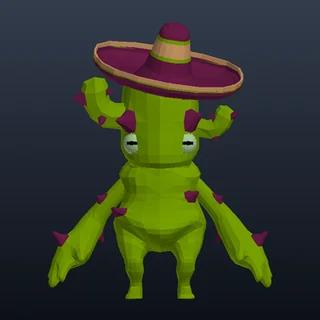
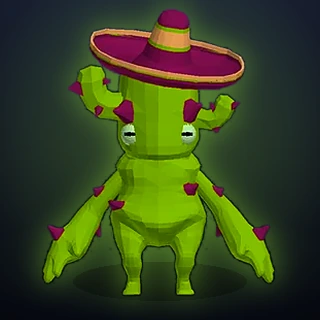
Polish full monster roster presentation

diff --git a/index.html b/index.html
@@ -14,7 +14,7 @@
 <!-- Which build is actually loaded. Stamped by build.js from a hash of the
      source, and shown in the pause panel, so "did my update land?" is a
      question anyone can answer on their phone in two taps. -->
-<meta name="build" content="8074300">
+<meta name="build" content="2ea5223">
 <meta name="description" content="Bomber Fan — a 3D local-multiplayer bomber game. One human, three bots, six themed maps. Works offline.">
 <!-- Added to a phone's home screen it launches full-screen, with no browser
      chrome eating the landscape height the arena needs. -->
@@ -2078,6 +2078,7 @@
   #select .sbody {
     display: grid !important;
     grid-template-columns: minmax(430px, 1.18fr) minmax(460px, 1fr) !important;
+    grid-template-rows: minmax(0, 1fr) auto !important;
     align-items: stretch !important;
     flex: 1 1 auto;
     gap: clamp(18px, 2.5vw, 38px) !important;
@@ -2182,57 +2183,6 @@
     display: block !important;
     color: rgba(255,245,230,.62);
   }
-  #spreview .preview-fallback.bombog {
-    width: 100%;
-    max-width: none;
-    background-color: #000;
-    background-image: url('assets/bombog-portrait.webp');
-    background-size: cover;
-    background-position: center;
-  }
-  #spreview .preview-fallback[data-fighter="hulk"],
-  #spreview .preview-fallback[data-fighter="piglet"],
-  #spreview .preview-fallback[data-fighter="reaper"],
-  #spreview .preview-fallback[data-fighter="cyclops"],
-  #spreview .preview-fallback[data-fighter="jester"],
-  #spreview .preview-fallback[data-fighter="inferno"],
-  #spreview .preview-fallback[data-fighter="plague"],
-  #spreview .preview-fallback[data-fighter="devil"],
-  #spreview .preview-fallback[data-fighter="maw"],
-  #spreview .preview-fallback[data-fighter="phantom"],
-  #spreview .preview-fallback[data-fighter="joker"],
-  #spreview .preview-fallback[data-fighter="blondie"],
-  #spreview .preview-fallback[data-fighter="dino"],
-  #spreview .preview-fallback[data-fighter="wario"],
-  #spreview .preview-fallback[data-fighter="deadpool"],
-  #spreview .preview-fallback[data-fighter="buzz"],
-  #spreview .preview-fallback[data-fighter="minion"],
-  #spreview .preview-fallback[data-fighter="sonic"],
-  #spreview .preview-fallback[data-fighter="tanooki-bowser"] {
-    width: 100%;
-    max-width: none;
-    background-size: cover;
-    background-position: center;
-  }
-  #spreview .preview-fallback[data-fighter="piglet"] { background-image: url('assets/piglet-portrait.webp'); }
-  #spreview .preview-fallback[data-fighter="reaper"] { background-image: url('assets/reaper-portrait.webp'); }
-  #spreview .preview-fallback[data-fighter="cyclops"] { background-image: url('assets/cyclops-portrait.webp'); }
-  #spreview .preview-fallback[data-fighter="jester"] { background-image: url('assets/jester-portrait.webp'); }
-  #spreview .preview-fallback[data-fighter="inferno"] { background-image: url('assets/inferno-portrait.webp'); }
-  #spreview .preview-fallback[data-fighter="hulk"] { background-image: url('assets/hulk-portrait.svg'); }
-  #spreview .preview-fallback[data-fighter="devil"] { background-image: url('assets/devil-portrait.webp'); }
-  #spreview .preview-fallback[data-fighter="maw"] { background-image: url('assets/maw-portrait.webp'); }
-  #spreview .preview-fallback[data-fighter="plague"] { background-image: url('assets/plague-portrait.webp'); }
-  #spreview .preview-fallback[data-fighter="phantom"] { background-image: url('assets/phantom-portrait.webp'); }
-  #spreview .preview-fallback[data-fighter="joker"] { background-image: url('assets/joker-portrait.svg'); }
-  #spreview .preview-fallback[data-fighter="blondie"] { background-image: url('assets/blondie-portrait.webp'); }
-  #spreview .preview-fallback[data-fighter="dino"] { background-image: url('assets/dino-portrait.webp'); }
-  #spreview .preview-fallback[data-fighter="wario"] { background-image: url('assets/wario-portrait.svg'); }
-  #spreview .preview-fallback[data-fighter="deadpool"] { background-image: url('assets/deadpool-portrait.webp'); }
-  #spreview .preview-fallback[data-fighter="buzz"] { background-image: url('assets/buzz-portrait.webp'); }
-  #spreview .preview-fallback[data-fighter="minion"] { background-image: url('assets/minion-portrait.webp'); }
-  #spreview .preview-fallback[data-fighter="sonic"] { background-image: url('assets/sonic-portrait.webp'); }
-  #spreview .preview-fallback[data-fighter="tanooki-bowser"] { background-image: url('assets/tanooki-bowser-portrait.webp'); }
   @supports (width: 1cqh) {
     #spreview .preview-fallback {
       width: min(92cqw, 75cqh);
@@ -2260,7 +2210,7 @@
     font: 900 8px/1 system-ui, sans-serif;
     letter-spacing: 2px;
     text-shadow: 0 0 10px var(--fighter);
-    display: none;
+    display: block;
   }
   #spreview .sname {
     z-index: 3;
@@ -2271,13 +2221,15 @@
     text-shadow: 0 4px 0 #050506, 0 0 22px var(--fighter), 0 0 45px rgba(0,0,0,.85) !important;
   }
   #select .sidentity {
+    grid-column: 1;
+    grid-row: 2;
     min-height: 72px;
     padding: 10px 14px 11px;
     border-left: 4px solid var(--fighter);
     border-radius: 7px;
     background: linear-gradient(90deg, color-mix(in srgb, var(--fighter) 15%, rgba(12,13,18,.96)), rgba(9,10,14,.92));
     box-shadow: inset 0 1px rgba(255,255,255,.04), 0 8px 20px rgba(0,0,0,.34);
-    display: none;
+    display: block;
   }
   #select .smeta { display: flex; align-items: center; gap: 10px; }
   #select .srole {
@@ -2302,15 +2254,15 @@
   }
   #select .sroster {
     grid-column: 2;
-    grid-row: 1;
+    grid-row: 1 / span 2;
     pointer-events: auto;
     display: grid;
     grid-template-columns: repeat(4, minmax(0, 1fr));
     grid-template-rows: repeat(5, minmax(52px, 1fr));
-    align-self: center;
+    align-self: stretch;
     gap: clamp(6px, .8vw, 10px);
     width: min(100%, 540px);
-    max-height: min(62vh, 560px);
+    max-height: none;
     padding: clamp(9px, 1.1vw, 13px);
     border: 1px solid rgba(255,255,255,.10);
     border-radius: 12px;
@@ -2368,48 +2320,6 @@
     position: absolute; inset: 0;
     background: linear-gradient(145deg, rgba(255,255,255,.13), transparent 35% 75%, rgba(0,0,0,.18));
   }
-  #select .charpick[data-class="5"] .charface,
-  #select .charpick[data-class="0"] .charface,
-  #select .charpick[data-class="1"] .charface,
-  #select .charpick[data-class="2"] .charface,
-  #select .charpick[data-class="3"] .charface,
-  #select .charpick[data-class="4"] .charface,
-  #select .charpick[data-class="6"] .charface,
-  #select .charpick[data-class="7"] .charface,
-  #select .charpick[data-class="8"] .charface,
-  #select .charpick[data-class="9"] .charface,
-  #select .charpick[data-class="10"] .charface,
-  #select .charpick[data-class="11"] .charface,
-  #select .charpick[data-class="12"] .charface,
-  #select .charpick[data-class="13"] .charface,
-  #select .charpick[data-class="14"] .charface,
-  #select .charpick[data-class="16"] .charface,
-  #select .charpick[data-class="17"] .charface,
-  #select .charpick[data-class="18"] .charface,
-  #select .charpick[data-class="19"] .charface {
-    background-size: cover;
-    background-position: center;
-  }
-  #select .charpick[data-class="0"] .charface { background-image: url('assets/piglet-portrait.webp'); }
-  #select .charpick[data-class="1"] .charface { background-image: url('assets/reaper-portrait.webp'); }
-  #select .charpick[data-class="2"] .charface { background-image: url('assets/cyclops-portrait.webp'); }
-  #select .charpick[data-class="3"] .charface { background-image: url('assets/jester-portrait.webp'); }
-  #select .charpick[data-class="4"] .charface { background-image: url('assets/inferno-portrait.webp'); }
-  #select .charpick[data-class="5"] .charface { background-image: url('assets/hulk-portrait.svg'); }
-  #select .charpick[data-class="6"] .charface { background-image: url('assets/devil-portrait.webp'); }
-  #select .charpick[data-class="7"] .charface { background-image: url('assets/maw-portrait.webp'); }
-  #select .charpick[data-class="8"] .charface { background-image: url('assets/bombog-portrait.webp'); }
-  #select .charpick[data-class="9"] .charface { background-image: url('assets/plague-portrait.webp'); }
-  #select .charpick[data-class="10"] .charface { background-image: url('assets/phantom-portrait.webp'); }
-  #select .charpick[data-class="11"] .charface { background-image: url('assets/joker-portrait.svg'); }
-  #select .charpick[data-class="12"] .charface { background-image: url('assets/deadpool-portrait.webp'); }
-  #select .charpick[data-class="13"] .charface { background-image: url('assets/blondie-portrait.webp'); }
-  #select .charpick[data-class="14"] .charface { background-image: url('assets/dino-portrait.webp'); }
-  #select .charpick[data-class="15"] .charface { background-image: url('assets/wario-portrait.svg'); background-size: cover; background-position: center; }
-  #select .charpick[data-class="16"] .charface { background-image: url('assets/buzz-portrait.webp'); }
-  #select .charpick[data-class="17"] .charface { background-image: url('assets/minion-portrait.webp'); }
-  #select .charpick[data-class="18"] .charface { background-image: url('assets/sonic-portrait.webp'); }
-  #select .charpick[data-class="19"] .charface { background-image: url('assets/tanooki-bowser-portrait.webp'); }
   #select .charindex {
     position: absolute;
     right: 6px;
@@ -2434,7 +2344,7 @@
     font: 800 clamp(6px, .54vw, 8px)/1 system-ui, sans-serif;
     letter-spacing: .5px;
     text-transform: uppercase;
-    display: none;
+    display: block;
   }
   #select .charpick:hover,
   #select .charpick.sel,
@@ -2538,7 +2448,7 @@
     #select .charcopy b { font-size: clamp(7px, 2.15vw, 9px); letter-spacing: 0; }
     #select .charcopy small { display: none; }
     #select .charindex { font-size: 6px; }
-    #select .sidentity { min-height: 38px; padding: 6px 8px; }
+    #select .sidentity { display: none; }
     #spreview .spreviewtag { display: none; }
     #select .sfoot { min-height: 42px; }
     #select .sfoot .opt.go {
@@ -2555,6 +2465,7 @@
     #select .shead { display: none; }
     #select .sbody {
       grid-template-columns: minmax(280px, 1.1fr) minmax(350px, 1fr) !important;
+      grid-template-rows: minmax(0, 1fr) !important;
       width: 100% !important;
       margin: 0 auto !important;
       padding: 7px 7px 14px !important;
@@ -2562,6 +2473,7 @@
     }
     #select .scol { min-height: 0; }
     #spreview { min-height: 0 !important; height: 100% !important; }
+    #select .sidentity { display: none; }
     #select .sroster {
       width: 100%; height: 100%; max-width: none; max-height: none;
       grid-template-rows: repeat(5, minmax(0, 1fr));
@@ -11929,6 +11841,7 @@ const CharacterModels = (() => {
     let currentClip = null;
     let lastT = null;
     let showcaseBeat = null;
+    let showcaseEpoch = null;
 
     const play = (clip, once) => {
       if (!clip || currentClip === clip) return;
@@ -11951,14 +11864,19 @@ const CharacterModels = (() => {
         mixer.update(dt);
       },
       showcase(t) {
-        const phase = (t + def.name.length * 0.23) % 5.2;
-        const expressive = phase < 1.75;
+        if (showcaseEpoch === null) showcaseEpoch = t;
+        // Lead with the signature move whenever a fighter is selected, then
+        // breathe briefly before replaying it. This reads as deliberate
+        // personality instead of a model idling for several seconds.
+        const phase = (t - showcaseEpoch) % 4.4;
+        const expressive = phase < 1.85;
         if (expressive === showcaseBeat) return;
         showcaseBeat = expressive;
         play(expressive ? expression : idle, expressive && expression !== idle);
       },
       reset() {
         showcaseBeat = null;
+        showcaseEpoch = null;
         play(idle, false);
       },
     };
@@ -11968,14 +11886,15 @@ const CharacterModels = (() => {
     const copy = material.clone();
     if (copy.map) {
       copy.map.colorSpace = RT.THREE.SRGBColorSpace;
+      copy.map.anisotropy = Math.max(copy.map.anisotropy || 1, 4);
       copy.map.needsUpdate = true;
     }
     if (copy.isMeshStandardMaterial || copy.isMeshPhysicalMaterial) {
-      copy.roughness = 0.4;
+      copy.roughness = 0.34;
       copy.metalness = Math.min(copy.metalness || 0, 0.08);
       if (copy.emissive) {
-        copy.emissive.setHex(def.color).multiplyScalar(0.12);
-        copy.emissiveIntensity = 0.18;
+        copy.emissive.setHex(def.color).multiplyScalar(0.08);
+        copy.emissiveIntensity = 0.55;
       }
     }
     copy.flatShading = false;
@@ -17364,8 +17283,8 @@ const Game = (function () {
       const cam = new THREE.PerspectiveCamera(29, 1, 0.1, 40);
       cam.position.set(0.08, 0.86, 3.55);
       cam.lookAt(0.08, 0.33, 0);
-      scene.add(new THREE.HemisphereLight(0xfff6e8, 0x62518c, 4.2));
-      const key = new THREE.DirectionalLight(0xffefd6, 5.8);
+      scene.add(new THREE.HemisphereLight(0xfff6e8, 0x31284d, 2.35));
+      const key = new THREE.DirectionalLight(0xffefd6, 3.35);
       key.position.set(2.4, 4, 3.2);
       key.castShadow = true;
       key.shadow.mapSize.set(1024, 1024);
@@ -17373,16 +17292,16 @@ const Game = (function () {
       key.shadow.camera.far = 12;
       key.shadow.bias = -0.0005;
       scene.add(key);
-      const rim = new THREE.DirectionalLight(0xff8dff, 3.2);
+      const rim = new THREE.DirectionalLight(0xff8dff, 2.15);
       rim.position.set(-3, 2, -2.5);
       scene.add(rim);
-      const fill = new THREE.PointLight(0x9cecff, 4.1, 8);
+      const fill = new THREE.PointLight(0x9cecff, 2.2, 8);
       fill.position.set(-1.7, 1.1, 2.6);
       scene.add(fill);
       // A hard edge light from behind. Bomb shells are deliberately near-black
       // on some levels, and without this the Classic and Cursed Skull designs
       // were a black shape on a black background.
-      const edge = new THREE.DirectionalLight(0xffffff, 4.8);
+      const edge = new THREE.DirectionalLight(0xffffff, 2.45);
       edge.position.set(2.2, 1.4, -3.4);
       scene.add(edge);
       // A plinth to stand on. Without it a dark bomb design on a dark
@@ -17397,7 +17316,7 @@ const Game = (function () {
       scene.add(plinth);
       const turn = new THREE.Group();
       scene.add(turn);
-      g.preview = { scene, cam, turn, mesh: null, bomb: null, width: 0, height: 0 };
+      g.preview = { scene, cam, turn, rim, fill, mesh: null, bomb: null, width: 0, height: 0 };
     }
     const pv = g.preview;
     [pv.mesh, pv.bomb].forEach(m => {
@@ -17419,6 +17338,8 @@ const Game = (function () {
     // which could make the entire roster appear back-first.
     pv.turn.rotation.y = -0.28;
     const previewDef = PLAYER_DEFS[g.selectedClass];
+    pv.rim.color.setHex(previewDef.color);
+    pv.fill.color.setHex(previewDef.trim || previewDef.color).lerp(new THREE.Color(0xffffff), 0.18);
     pv.mesh = Player.buildMesh(previewDef, defaultLoadout());
     Player.applyViewScale(pv.mesh, previewDef.flying ? 1.34 : 1.08);
     pv.mesh.position.set(0, -0.4, 0);
@@ -17446,7 +17367,8 @@ const Game = (function () {
     pv.cam.updateProjectionMatrix();
     const wasColour = r.getClearColor(new THREE.Color());
     const wasAlpha = r.getClearAlpha();
-    r.setClearColor(0x241d46, 1);
+    const stage = new THREE.Color(0x080b14).lerp(new THREE.Color(PLAYER_DEFS[g.selectedClass].color), 0.14);
+    r.setClearColor(stage, 1);
     r.setScissorTest(false);
     r.setViewport(0, 0, w, hh);
     r.render(pv.scene, pv.cam);

diff --git a/refresh.html b/refresh.html
@@ -36,7 +36,7 @@
       );
     }
   } catch (_) {}
-  window.location.replace(new URL('./?build=8074300&preview=bunny', scope).href);
+  window.location.replace(new URL('./?build=2ea5223&preview=bunny', scope).href);
 })();
 </script>
 </body>

diff --git a/README.md b/README.md
@@ -12,4 +12,4 @@ The game is hosted with GitHub Pages from the `main` branch. `index.html` is the
 
 ## Character assets
 
-The 20 animated fighters use the [Ultimate Monsters](https://quaternius.com/packs/ultimatemonsters.html) pack by Quaternius under CC0 1.0. Bomber Fan ships colour-enhanced texture variants, generated portraits, and a lazy-loaded animated glTF runtime. Full provenance is recorded in `assets/characters/LICENSE.txt`.
+The 20 animated fighters use the [Ultimate Monsters](https://quaternius.com/packs/ultimatemonsters.html) pack by Quaternius under CC0 1.0. Bomber Fan ships colour-enhanced texture variants, individually lit portraits, signature-move Loadout previews, and a lazy-loaded animated glTF runtime. Full provenance is recorded in `assets/characters/LICENSE.txt`.
